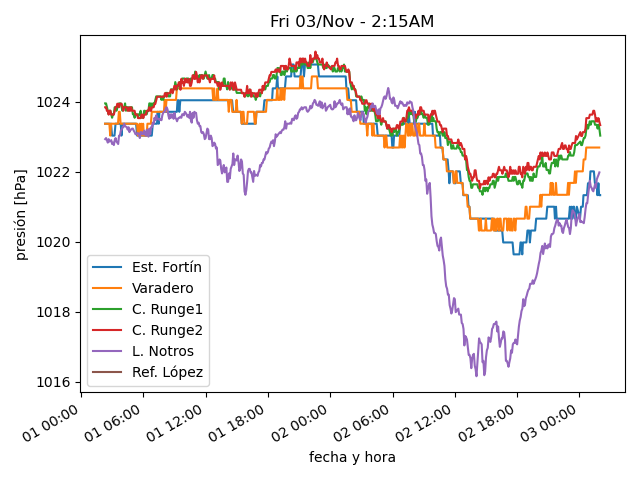
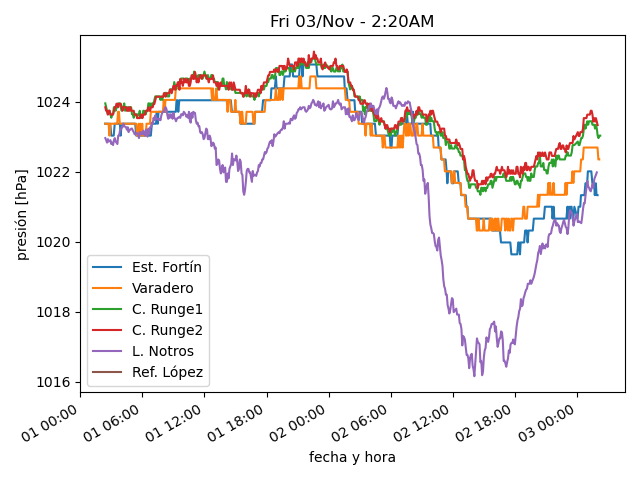
actualiza datos

diff --git a/estaciones/estacion2.html b/estaciones/estacion2.html
@@ -18,12 +18,12 @@
     </tr>
     <tr>
      <td class="stats_data">
-      1:54AM
+      2:09AM
      </td>
     </tr>
     <tr>
      <td class="stats_data">
-      8.4⁰C
+      8.3⁰C
      </td>
     </tr>
     <tr>
@@ -33,17 +33,17 @@
     </tr>
     <tr>
      <td class="stats_data">
-      73.2%
+      74.1%
      </td>
     </tr>
     <tr>
      <td class="stats_data">
-      1032.17hPa
+      1031.83hPa
      </td>
     </tr>
     <tr>
      <td class="stats_data">
-      28.0/32.0 km/hr WNW
+      18.6/23.9 km/hr NW
      </td>
     </tr>
     <tr>

diff --git a/estaciones/estacion3.html b/estaciones/estacion3.html
@@ -18,7 +18,7 @@
     </tr>
     <tr>
      <td class="stats_data">
-      1:59AM
+      2:14AM
      </td>
     </tr>
     <tr>
@@ -28,12 +28,12 @@
     </tr>
     <tr>
      <td class="stats_data">
-      1.1⁰C
+      0.9⁰C
      </td>
     </tr>
     <tr>
      <td class="stats_data">
-      69.1%
+      68.0%
      </td>
     </tr>
     <tr>
@@ -43,7 +43,7 @@
     </tr>
     <tr>
      <td class="stats_data">
-      6.7/8.7 km/hr WNW
+      9.0/12.7 km/hr W
      </td>
     </tr>
     <tr>
